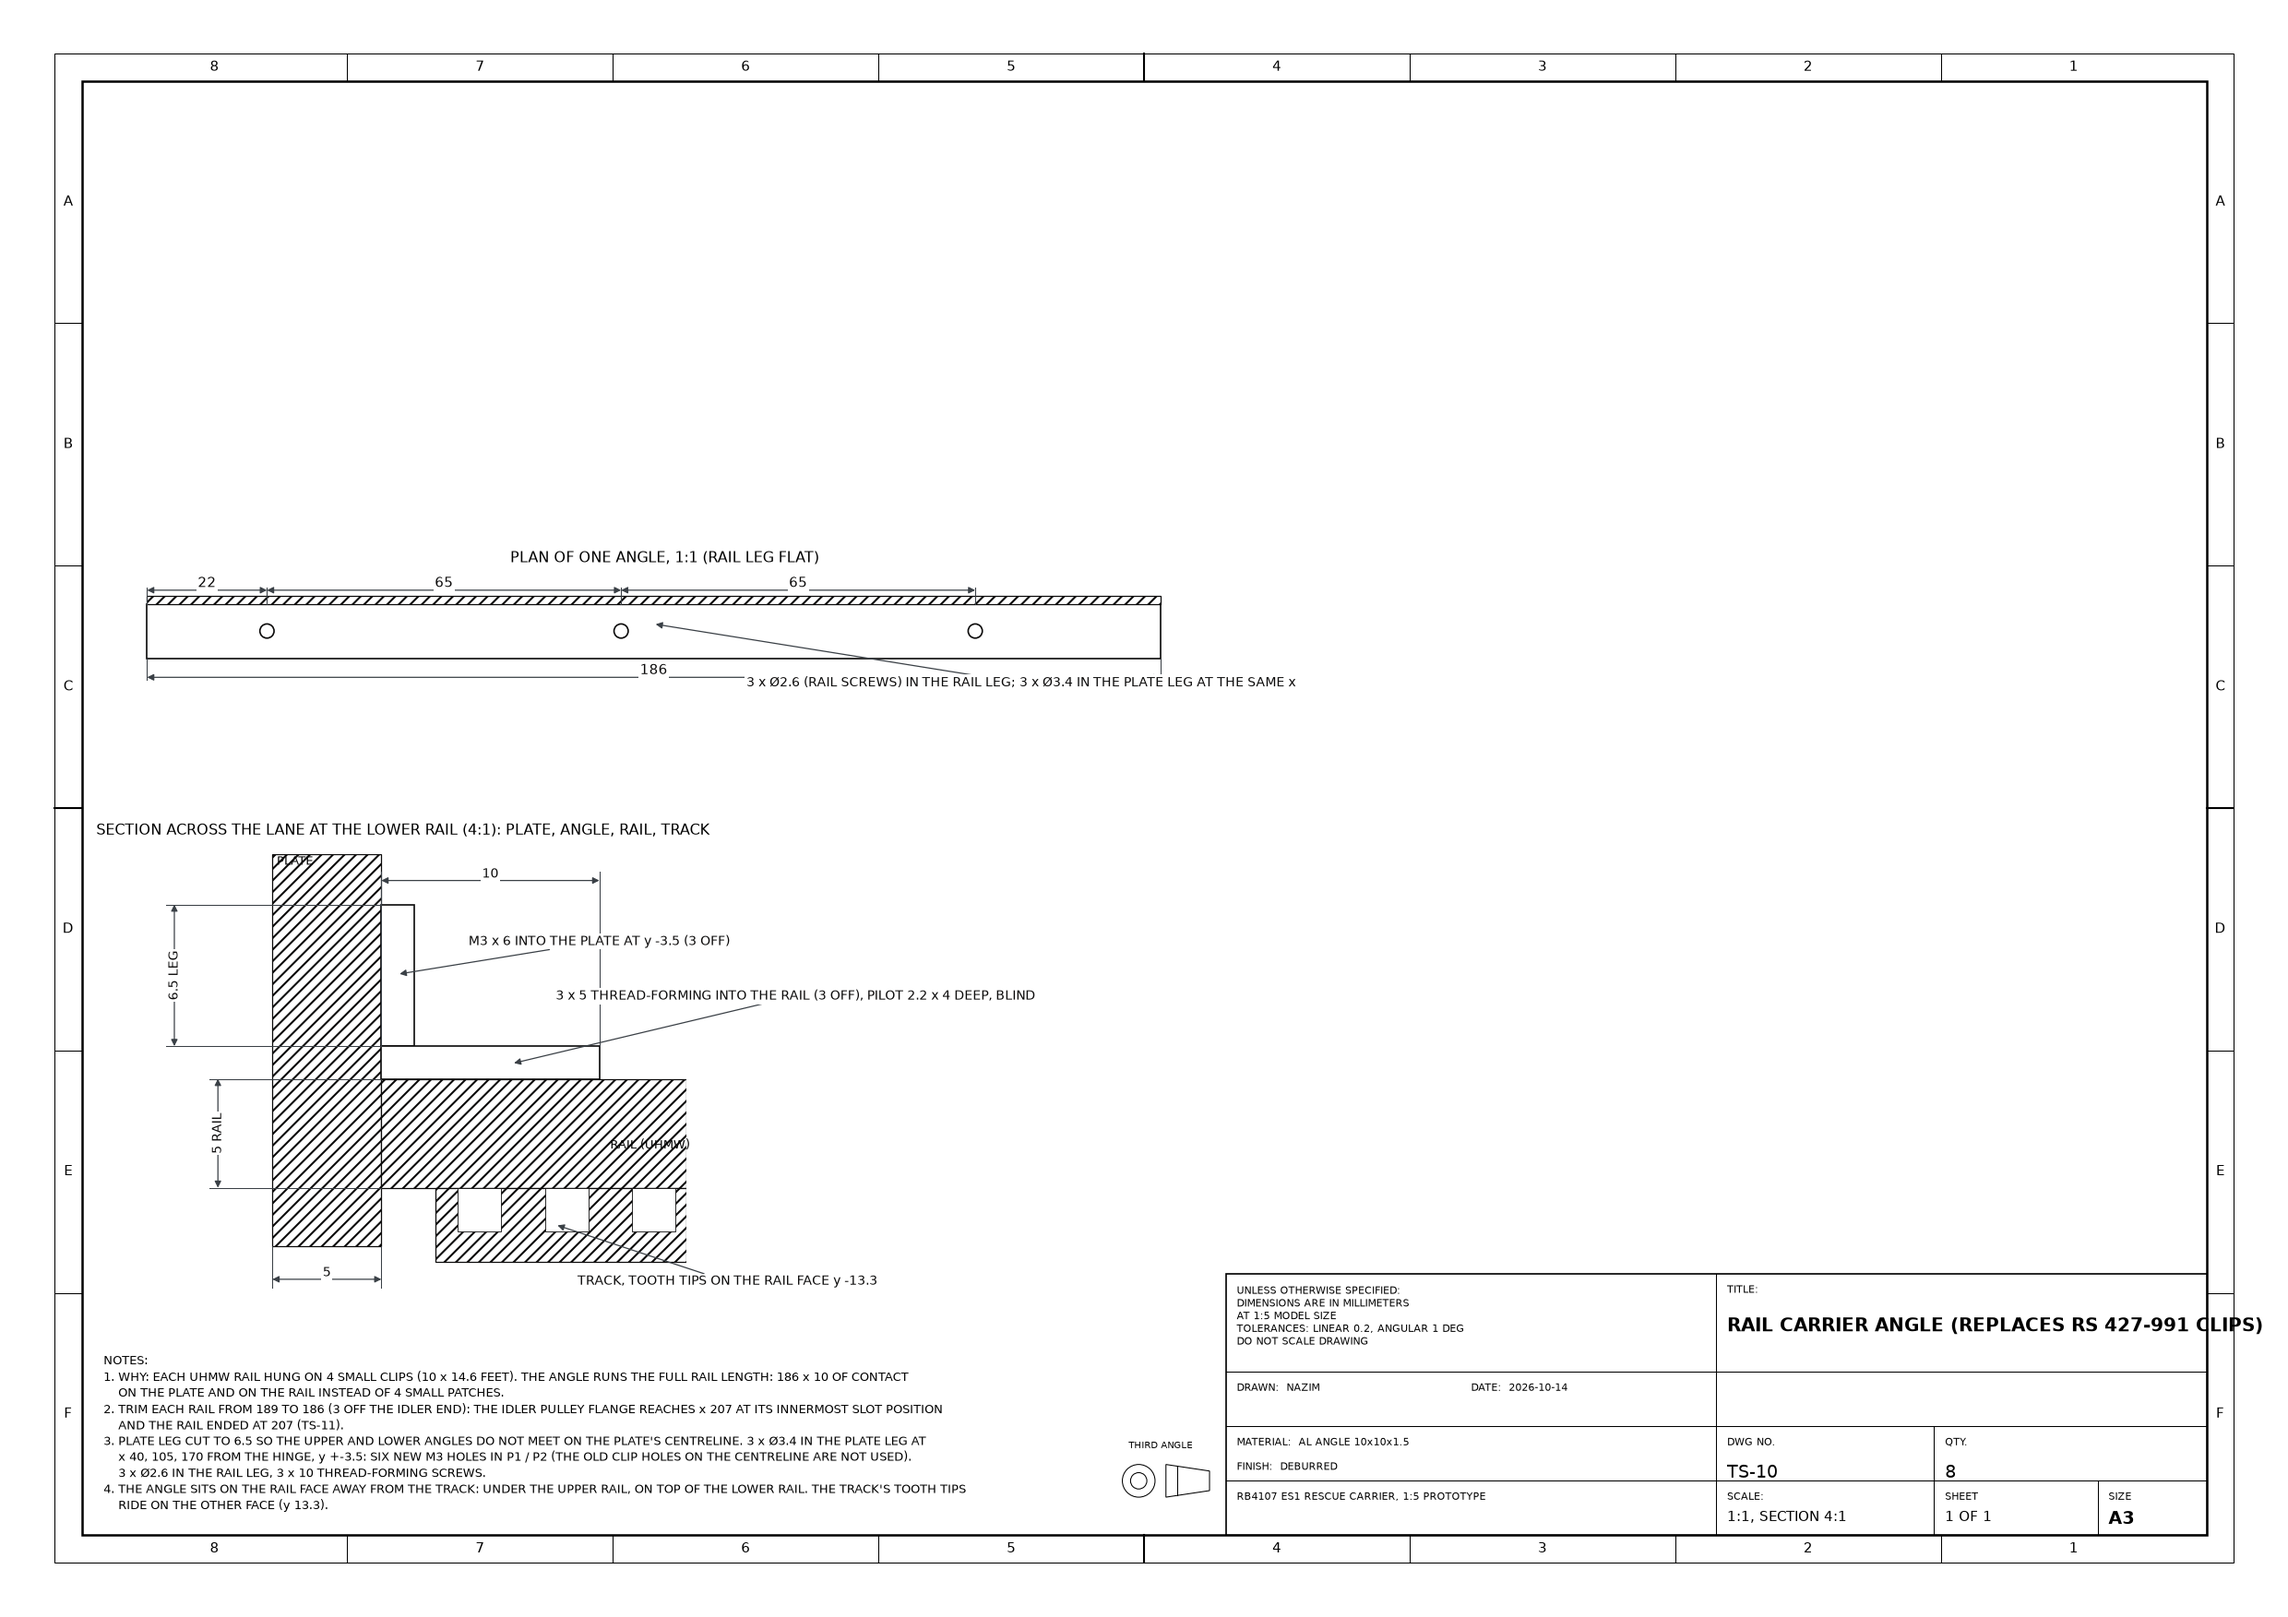
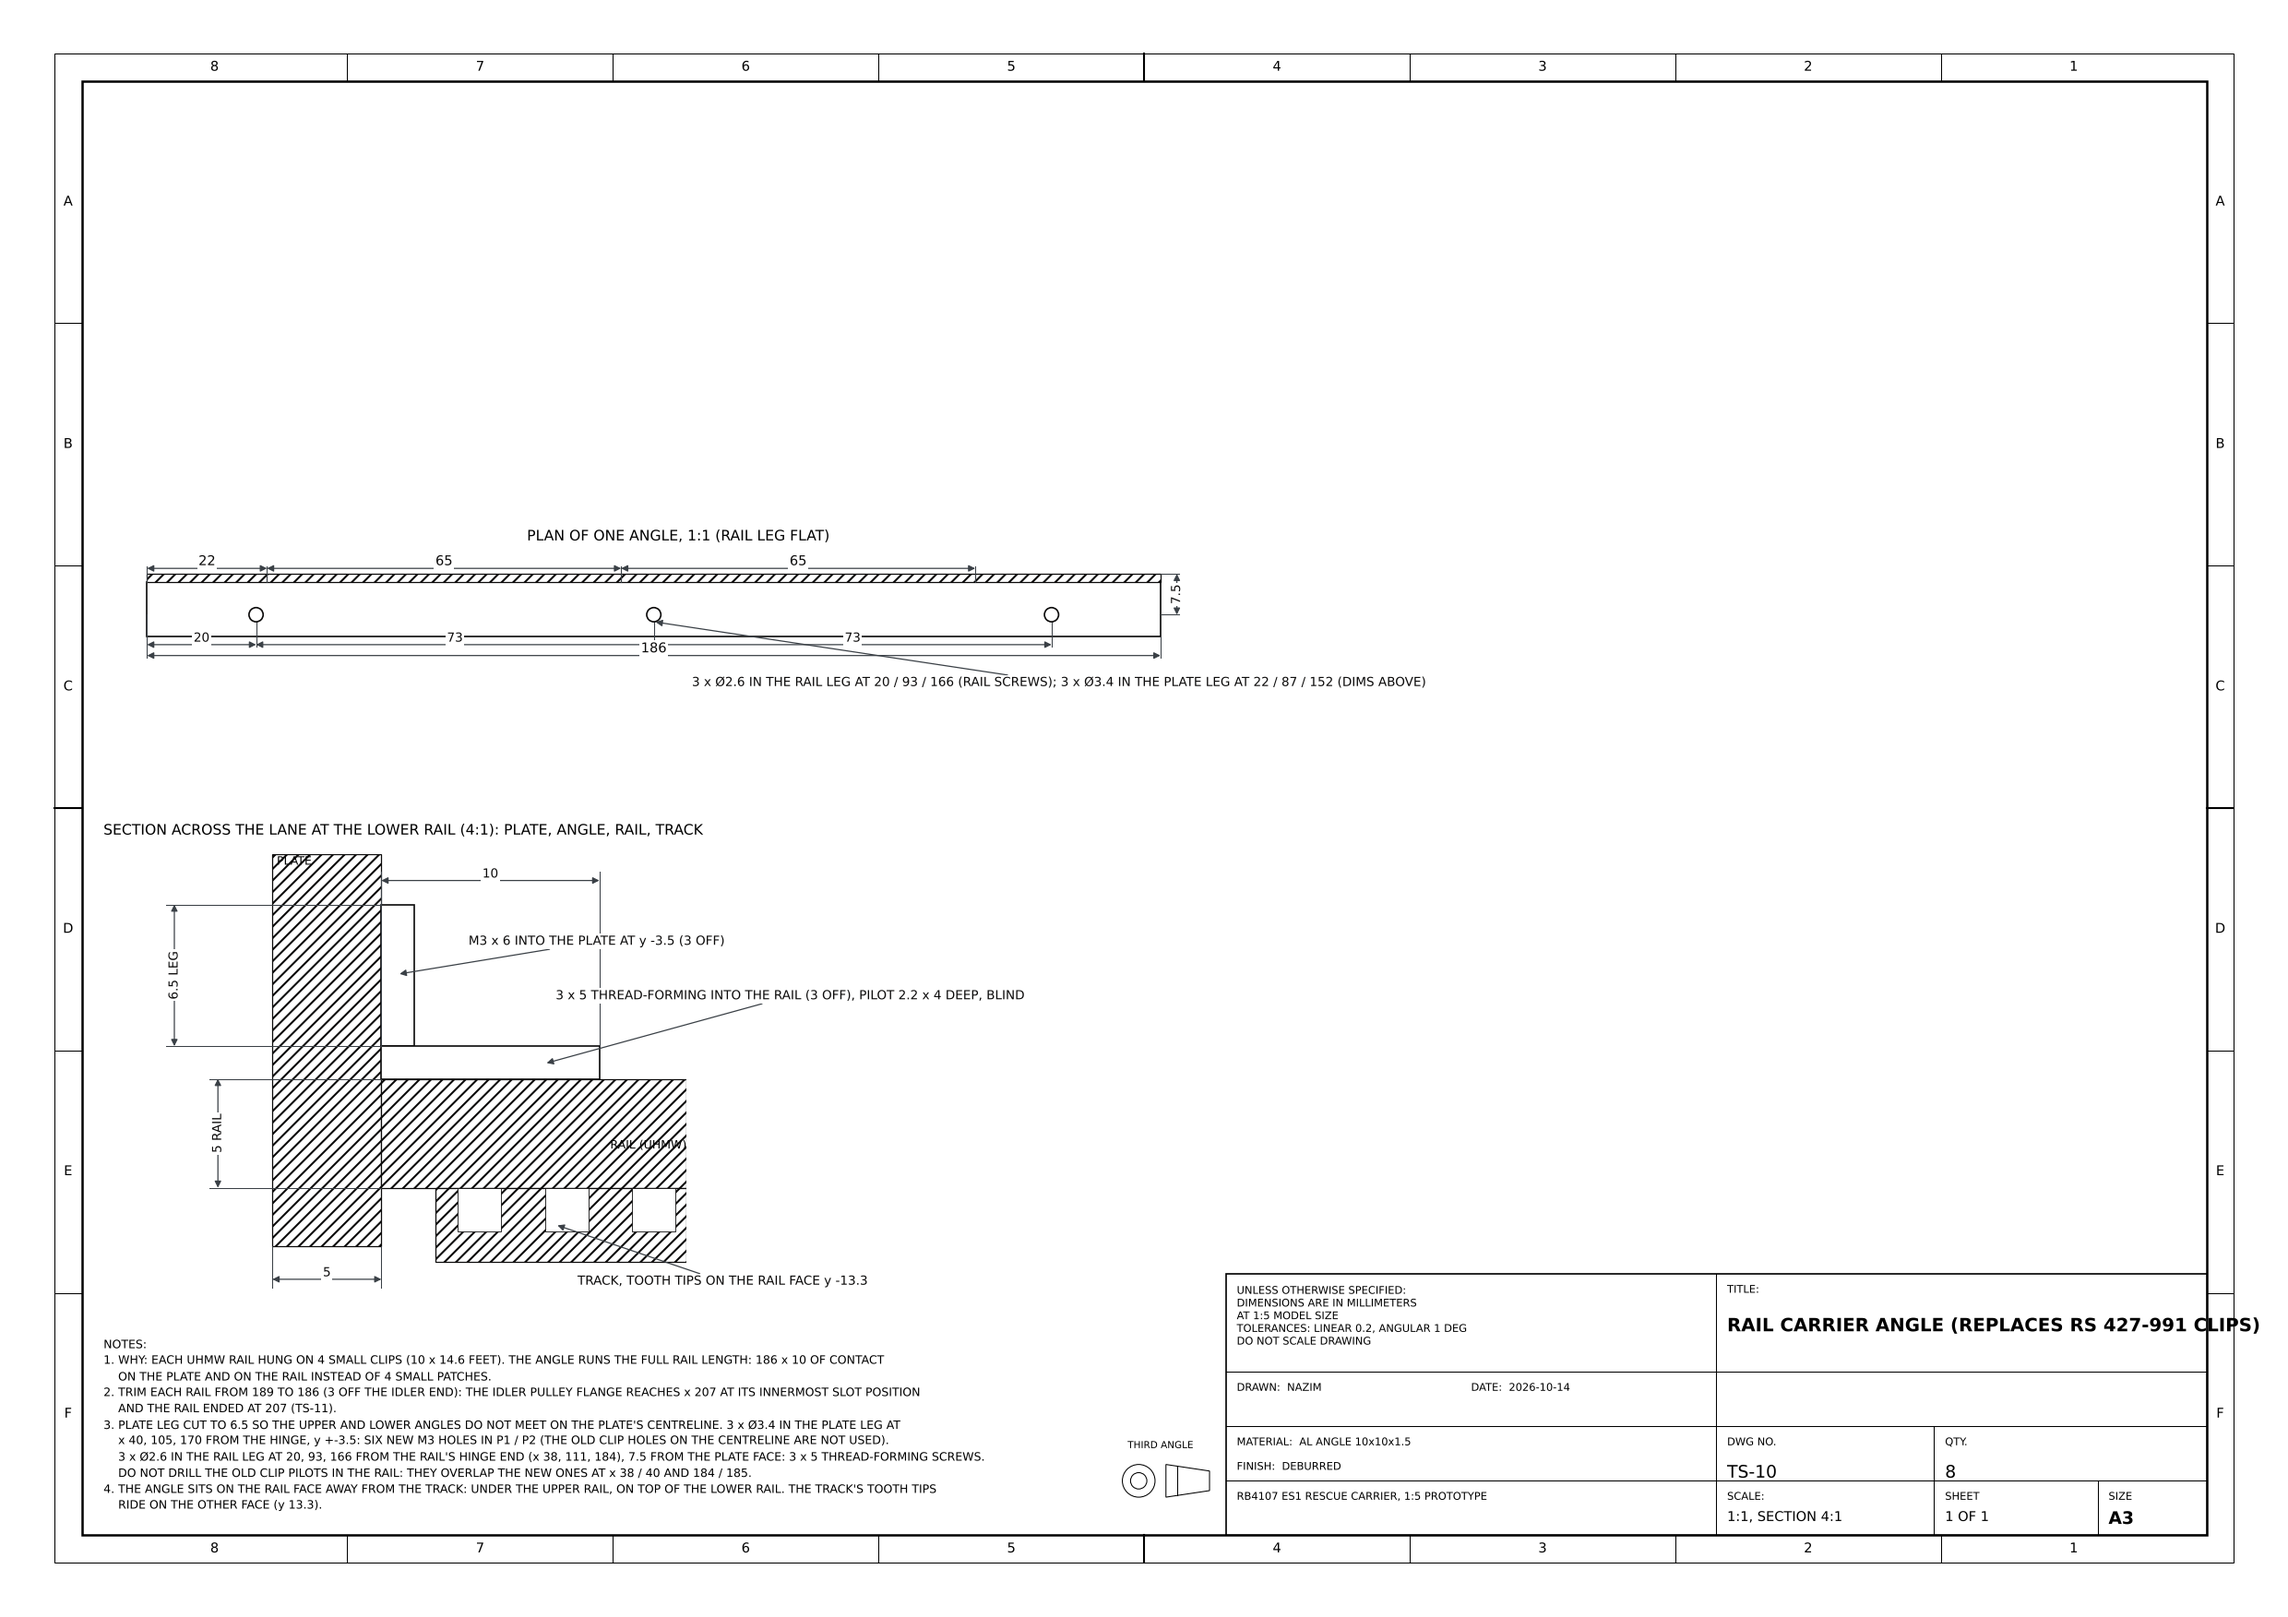
Track unit: rail screw positions, 3 x 5 note, stage-2 pin 2.5 x 16
TS-10: rail-leg holes at 20/93/166 from the rail's hinge end, 7.5 from
the plate face; 3 x 5 thread-forming (not 3 x 10); old clip pilots not
to be drilled. TS-11 and procurement 1C: stage-2 pulley pin 2.5 x 16.
Brief and README updated to match.

Claude-Session: https://claude.ai/code/session_01JCvVuLKCfivs9KhK1rRmqH

diff --git a/3d_models/changi_es1_rescue_stairs/track_print/assembly/drawings/eng_sheets.py b/3d_models/changi_es1_rescue_stairs/track_print/assembly/drawings/eng_sheets.py
@@ -707,16 +707,19 @@ def sheet_rail_carrier():
     fig, view, bg = a3_sheet("RAIL CARRIER ANGLE (REPLACES RS 427-991 CLIPS)", "TS-10", material="AL ANGLE 10x10x1.5", finish="DEBURRED", qty=8, scale="1:1, SECTION 4:1", notes=[
         "WHY: EACH UHMW RAIL HUNG ON 4 SMALL CLIPS (10 x 14.6 FEET). THE ANGLE RUNS THE FULL RAIL LENGTH: 186 x 10 OF CONTACT\n    ON THE PLATE AND ON THE RAIL INSTEAD OF 4 SMALL PATCHES.",
         "TRIM EACH RAIL FROM 189 TO 186 (3 OFF THE IDLER END): THE IDLER PULLEY FLANGE REACHES x 207 AT ITS INNERMOST SLOT POSITION\n    AND THE RAIL ENDED AT 207 (TS-11).",
-        "PLATE LEG CUT TO 6.5 SO THE UPPER AND LOWER ANGLES DO NOT MEET ON THE PLATE'S CENTRELINE. 3 x Ø3.4 IN THE PLATE LEG AT\n    x 40, 105, 170 FROM THE HINGE, y +-3.5: SIX NEW M3 HOLES IN P1 / P2 (THE OLD CLIP HOLES ON THE CENTRELINE ARE NOT USED).\n    3 x Ø2.6 IN THE RAIL LEG, 3 x 10 THREAD-FORMING SCREWS.",
+        "PLATE LEG CUT TO 6.5 SO THE UPPER AND LOWER ANGLES DO NOT MEET ON THE PLATE'S CENTRELINE. 3 x Ø3.4 IN THE PLATE LEG AT\n    x 40, 105, 170 FROM THE HINGE, y +-3.5: SIX NEW M3 HOLES IN P1 / P2 (THE OLD CLIP HOLES ON THE CENTRELINE ARE NOT USED).\n    3 x Ø2.6 IN THE RAIL LEG AT 20, 93, 166 FROM THE RAIL'S HINGE END (x 38, 111, 184), 7.5 FROM THE PLATE FACE: 3 x 5 THREAD-FORMING SCREWS.\n    DO NOT DRILL THE OLD CLIP PILOTS IN THE RAIL: THEY OVERLAP THE NEW ONES AT x 38 / 40 AND 184 / 185.",
         "THE ANGLE SITS ON THE RAIL FACE AWAY FROM THE TRACK: UNDER THE UPPER RAIL, ON TOP OF THE LOWER RAIL. THE TRACK'S TOOTH TIPS\n    RIDE ON THE OTHER FACE (y 13.3).",
     ])
-    ax = view(22, 170, (-5, 195), (-6, 14), 1.0, "PLAN OF ONE ANGLE, 1:1 (RAIL LEG FLAT)")
+    ax = view(22, 170, (-5, 200), (-10, 14), 1.0, "PLAN OF ONE ANGLE, 1:1 (RAIL LEG FLAT)")
     rect(ax, 0, 0, 186, 10, "white", lw=0.8)
-    for x in (22, 87, 152): circle(ax, x, 5, 1.3, fill="white").set_zorder(4)
+    for x in (20, 93, 166): circle(ax, x, 4, 1.3, fill="white").set_zorder(4)              # rail leg, 7.5 from the plate face (y 11.5)
     rect(ax, 0, 10, 186, 1.5, "white", lw=0.8, hatch="////")
+    for x in (22, 87, 152): ax.plot([x, x], [10, 11.5], color=INK, lw=0.6, dashes=(1, 1))  # plate-leg holes, seen edge on
     dim_h(ax, 0, 186, -3.5, "186", ext_from=0, fontsize=7)
+    dim_h(ax, 0, 20, -1.5, "20", ext_from=4, fontsize=6.5); dim_h(ax, 20, 93, -1.5, "73", ext_from=4, fontsize=6.5); dim_h(ax, 93, 166, -1.5, "73", ext_from=4, fontsize=6.5)
     dim_h(ax, 0, 22, 12.5, "22", ext_from=10, fontsize=7); dim_h(ax, 22, 87, 12.5, "65", ext_from=10, fontsize=7); dim_h(ax, 87, 152, 12.5, "65", ext_from=10, fontsize=7)
-    leader(ax, (93, 6.3), (110, -4.5), "3 x Ø2.6 (RAIL SCREWS) IN THE RAIL LEG; 3 x Ø3.4 IN THE PLATE LEG AT THE SAME x", fontsize=6.5)
+    dim_v(ax, 4, 11.5, 189, "7.5", ext_from=186, fontsize=6.5)
+    leader(ax, (93, 2.7), (100, -8.5), "3 x Ø2.6 IN THE RAIL LEG AT 20 / 93 / 166 (RAIL SCREWS); 3 x Ø3.4 IN THE PLATE LEG AT 22 / 87 / 152 (DIMS ABOVE)", fontsize=6.5)
     S = 4.0
     ax = view(22, 60, (-12, 14), (-18, 2), S, "SECTION ACROSS THE LANE AT THE LOWER RAIL (4:1): PLATE, ANGLE, RAIL, TRACK")
     rect(ax, -5, -16, 5, 18, "white", lw=0.8, hatch="////")                               # plate P1 (z 55-60), y to 15.4 (cut off)
@@ -731,7 +734,7 @@ def sheet_rail_carrier():
     dim_h(ax, 0, 10, 0.8, "10", ext_from=-6.8, fontsize=6.5)
     dim_h(ax, -5, 0, -17.5, "5", ext_from=-16, fontsize=6.5)
     leader(ax, (0.75, -3.5), (4, -2), "M3 x 6 INTO THE PLATE AT y -3.5 (3 OFF)", fontsize=6.5)
-    leader(ax, (6, -7.6), (8, -4.5), "3 x 5 THREAD-FORMING INTO THE RAIL (3 OFF), PILOT 2.2 x 4 DEEP, BLIND", fontsize=6.5)
+    leader(ax, (7.5, -7.6), (8, -4.5), "3 x 5 THREAD-FORMING INTO THE RAIL (3 OFF), PILOT 2.2 x 4 DEEP, BLIND", fontsize=6.5)
     leader(ax, (8, -15), (9, -17.6), "TRACK, TOOTH TIPS ON THE RAIL FACE y -13.3", fontsize=6.5)
     ax.text(-4.8, 1.4, "PLATE", fontsize=6, va="bottom"); ax.text(10.5, -11.5, "RAIL (UHMW)", fontsize=6)
     save(fig, "TS-10_rail_carrier")
@@ -762,7 +765,8 @@ def sheet_stackup():
         rect(ax, z0, -17.85, 1.5, 35.7, "white", lw=0.6); rect(ax, z0 + 17.5, -17.85, 1.5, 35.7, "white", lw=0.6)
         rect(ax, z0 + 1.5, -15.3, 16, 30.6, "white", lw=0.8, hatch="////")
     rect(ax, 80, -15, 5, 30.4, "white", lw=0.8, hatch="\\\\"); rect(ax, 80, -8, 5, 16, "white", lw=0.6)
-    for zc in (35.1, 70, 95): rect(ax, zc - 1.25, -12, 2.5, 24, "white", lw=0.6)          # pins
+    for zc in (70, 95): rect(ax, zc - 1.25, -12, 2.5, 24, "white", lw=0.6)               # hinge pulley pins 2.5 x 24
+    rect(ax, 35.1 - 1.25, -8, 2.5, 16, "white", lw=0.6)                                     # stage-2 pin 2.5 x 16 (pulley Ø17.5)
     for z in (46, 55, 60.5, 79.5, 80, 85, 85.5): ax.plot([z, z], [-19, 19], color=DIM, lw=0.3, dashes=(2, 2))
     y = -19.5
     for a, b, t in ((28.7, 30.2, "1.5"), (30.2, 40, "9.8"), (40, 41, "1"), (41, 46, "5"), (46, 55, "9"), (55, 60, "5"), (60, 60.5, ".5"), (60.5, 79.5, "19"), (79.5, 80, ".5"), (80, 85, "5"), (85, 85.5, ".5"), (85.5, 104.5, "19"), (104.5, 106, "1.5")):
@@ -770,7 +774,7 @@ def sheet_stackup():
     dim_h(ax, 28.7, 106, 21, "77.3 (P20-B)", ext_from=4, fontsize=6.5)
     for z, t in ((35.1, "STAGE-2\nPULLEY M3"), (43.5, "P17 +\n688"), (57.5, "P1 +\n688"), (70, "FRONT HINGE\nPULLEY M1"), (82.5, "P2 +\n688"), (95, "REAR HINGE\nPULLEY M1")):
         ax.text(z, 18.5, t, fontsize=5.5, ha="center", va="bottom")
-    leader(ax, (70, 12), (64, -16.5), "PIN Ø2.5 x 24 AT MID-FACE, 3 OFF PER SHAFT", fontsize=6)
+    leader(ax, (70, 12), (64, -16.5), "PINS Ø2.5 AT MID-FACE, 3 OFF PER SHAFT:\nx 24 IN THE HINGE PULLEYS, x 16 IN THE STAGE-2", fontsize=6)
     leader(ax, (60.25, 5.5), (48, 14), "SHIM 8x11x0.5 ON THE INNER RING", fontsize=6)
     leader(ax, (79.75, 0), (96, -13), "0.3-0.5 FEELER GAP (NO SHIM)", fontsize=6)
     # idler screw, B side nose

diff --git a/3d_models/changi_es1_rescue_stairs/track_print/FUSION_BRIEF.md b/3d_models/changi_es1_rescue_stairs/track_print/FUSION_BRIEF.md
@@ -33,7 +33,7 @@ dark, steel parts grey.
 | Nhien's Rev B | Reviewed model | Why |
 |---|---|---|
 | Hinge shaft Ø8 with a D-flat and E-clip grooves at both ends | plain round Ø8 h7, 82.3 (A) and 77.3 (B), no flat, no grooves | the flat only serves a set screw and gives no axial location; the grooves cut Ø8 to Ø6 at the ends |
-| Hinge wheels M1 and stage-2 pulleys M3 with D-bores and M4 grub screws | bores round, reamed 8 H7; one Ø2.5 cross hole at mid-face; one ISO 8752 spring pin 2.5 x 24 each | a pin drives the part and fixes it along the shaft at once; nothing to loosen |
+| Hinge wheels M1 and stage-2 pulleys M3 with D-bores and M4 grub screws | bores round, reamed 8 H7; one Ø2.5 cross hole at mid-face; one ISO 8752 spring pin each: 2.5 x 24 in the hinge wheels, 2.5 x 16 in the stage-2 pulley (Ø17.5, so a 24 pin would stick out) | a pin drives the part and fixes it along the shaft at once; nothing to loosen |
 | E-clips DIN 6799-6 at the shaft ends | deleted | the pinned front wheel between the P1 and P2 bearings locates the shaft; the rear wheel's own pin keeps it at the shaft end |
 | Idler shoulder screw clamped by its nut in the plate slot | slot kept; TS-09 tab, slider with foot and M4 x 20 jack screw added at each idler; M6 washer deleted, nut 1.4 mm inboard | nothing pushed the idler out or held it there except friction; tension could not be set or kept |
 | Four RS clips per rail | one full-length 10 x 10 x 1.5 carrier angle per rail (TS-10), plate leg cut to 6.5, rails trimmed 189 to 186 | reviewer: contact area too small; the flange needs the rail to end short at x 207 |
@@ -92,8 +92,10 @@ drawing's parts list is complete:
 - 4 x M3 x 6 socket head ISO 4762: tensioner tab ear to the plate at (+-223, +11), head on
   the 3 mm ear.
 - 24 x 3 x 5 pan-head thread-forming screws for plastics: rail to carrier angle, through the
-  10 leg into blind pilots in the rail at 20, 93 and 166 from the rail's hinge end, heads on
-  the leg's inner face. 3 x 5, not the 3 x 10 that older sheets and the first plan text
+  10 leg into blind pilots in the rail at 20, 93 and 166 from the rail's hinge end (x 38, 111,
+  184 on the plate; not at the plate screws' x), 7.5 from the plate face, heads on the leg's
+  inner face. Do not drill Nhien's old clip pilots in the rail: they overlap the new ones at
+  x 38 / 40 and 184 / 185. 3 x 5, not the 3 x 10 that older sheets and the first plan text
   said: the rail is only 5 mm thick and its far face is the track's sliding face, so a 10 mm
   screw would come 3.5 mm out of it. Corrected 18 Oct in the plan, TS-10 and EX-10.
 

diff --git a/3d_models/changi_es1_rescue_stairs/track_print/assembly/procurement_revB.md b/3d_models/changi_es1_rescue_stairs/track_print/assembly/procurement_revB.md
@@ -28,7 +28,8 @@ Deck: no change needed; the 3 mm cleats sit 5 mm under the deck.
 |---|---|---|---|---|---|
 | Timing pulley HTD 5M 20T, 15 mm belt, flanged, **plain (pilot) bore** | 8 + 1 to practise boring and pinning on | **Buy** | [MISUMI SG, Timing Pulleys HTD 5M](https://sg.misumi-ec.com/vona2/detail/110310532889/) | ~S$20 each | ships 1 day from SG stock; allow 2-5 days |
 | Pulley bore modification: 4 x ream Ø8 H7 (hinge, M1 and M3 stage-2) and 4 x bore Ø16 H7 (idlers, M2); hub cross holes Ø2.5 drilled on the press when boring, shaft drilled through them at assembly (TS-06, TS-11) | 8 + 2 | **Make**: Professional Workshop request | E3-01-06 | free | workshop queue, allow 1-2 weeks |
-| Spring pins ISO 8752 2.5 x 24 (hinge pulleys and stage-2 pulleys, replaces E-clips F22 and the D-flats) | 6 + 4 spare | **Buy** | [RS SG spring pins](https://sg.rs-online.com/web/c/fasteners-fixings/pins/spring-pins/) | ~S$5 / pack | RS SG stock |
+| Spring pins ISO 8752 2.5 x 24 (hinge pulleys, replaces E-clips F22 and the D-flats) | 4 + 4 spare | **Buy** | [RS SG spring pins](https://sg.rs-online.com/web/c/fasteners-fixings/pins/spring-pins/) | ~S$5 / pack | RS SG stock |
+| Spring pins ISO 8752 2.5 x 16 (stage-2 pulleys M3 only, if Nhien pins them: the pulley is Ø17.5, so 24 is too long) | 2 + 2 spare | **Buy** | [RS SG spring pins](https://sg.rs-online.com/web/c/fasteners-fixings/pins/spring-pins/) | ~S$5 / pack | RS SG stock |
 | Set screws M4 x 5 cone point DIN 914 (stage-2 pulleys M3 only, if Nhien keeps his pulley's tapped hole: cone point into a seat spot-drilled in the shaft through that hole, Loctite 243; the hinge wheels have no hub in the 20 mm lane, so they stay pinned; plan Appendix C item 17) | 2 + 2 spare | **Buy** | [RS SG set screws](https://sg.rs-online.com/web/c/fasteners-fixings/screws-bolts/set-screws/) | ~S$3 / pack | RS SG stock |
 | Hinge shaft: plain round Ø8 h7 ground steel, 300 mm (100 mm to practise on) (replaces the D-shaft B13; cut to 82.3 and 77.3, no grooves) | 1 | **Buy**, cut | [RS SG linear shafts](https://sg.rs-online.com/web/c/bearings-seals/linear-motion/linear-shafts/) or MISUMI SG PSFJ8 | ~S$10 | RS SG stock |
 

diff --git a/3d_models/changi_es1_rescue_stairs/track_print/README.md b/3d_models/changi_es1_rescue_stairs/track_print/README.md
@@ -166,3 +166,8 @@ assembly plan document):
 - Rail screws corrected 18 Oct (found when the fasteners were added in Fusion): 3 x 5 thread-forming into blind
   pilots 4 deep, not 3 x 10; the rail is 5 thick and its far face carries the track. The 24 carrier M3 x 6 and the
   4 tab M3 x 6 are listed in the brief and the procurement list; none of these 52 screws are in the STEP.
+- Rail screw positions settled 19 Oct: 20, 93, 166 from the rail's hinge end (x 38, 111, 184), 7.5 from the plate
+  face, not at the plate screws' x (TS-10 redrawn). Do not drill the old clip pilots in the rails: they overlap the
+  new ones at x 38 / 40 and 184 / 185.
+- Stage-2 pulley pin, if Nhien pins it: 2.5 x 16, not 2.5 x 24 (the pulley is Ø17.5). The hinge wheels keep
+  2.5 x 24. TS-11 and procurement 1C updated.
